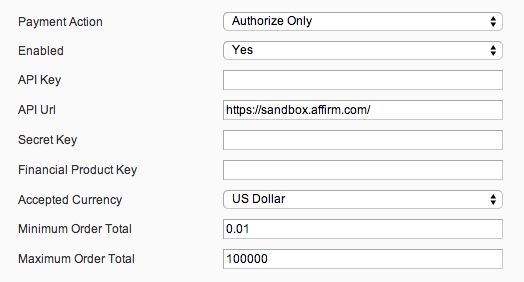
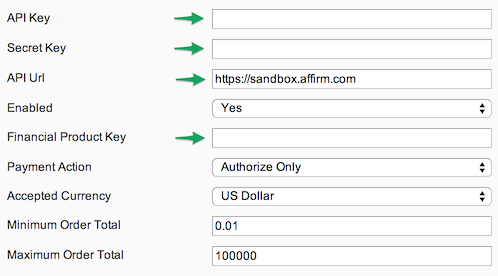
[docs] update configuration instructions

diff --git a/README.md b/README.md
@@ -40,6 +40,8 @@ modman update Magento_Affirm
 Configure
 ---------
 
+**Payment Method**
+
 1. Log in to your Magento Admin portal.
 2. Visit System > Cache Management. Then, click _Flush Magento Cache_
 2. Visit System > Configuration > Payment Methods (under Sales) > Affirm
@@ -48,7 +50,15 @@ Configure
 5. Adjust the order total minimum and maximum options to control when Affirm is
    shown to your customers.
  
-![](docs/config.png)
+	![](docs/config.png)
+
+**Promos**
+
+1. Visit System > Configuration > Affirm Promos (under General)
+1. Set the Promo Key and enable the extension.
+1. (optional) Customize the size and position of your promos.
+	
+	![](docs/promo-config.png)
 
 
 Contribute
